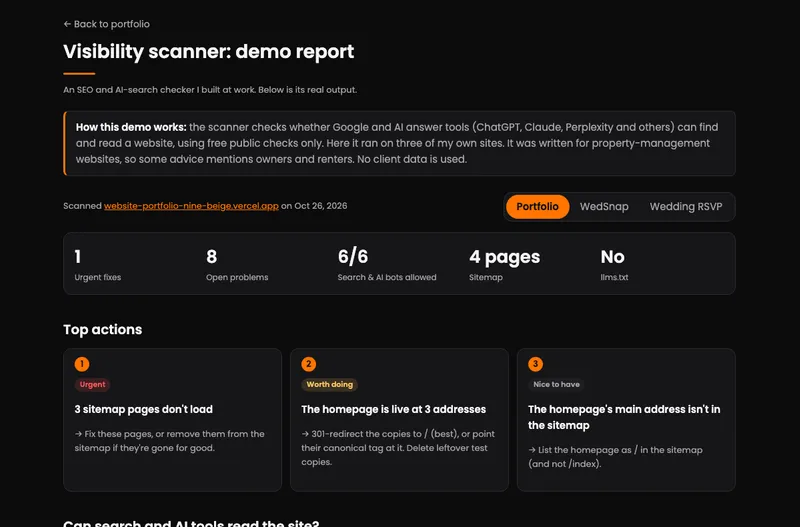
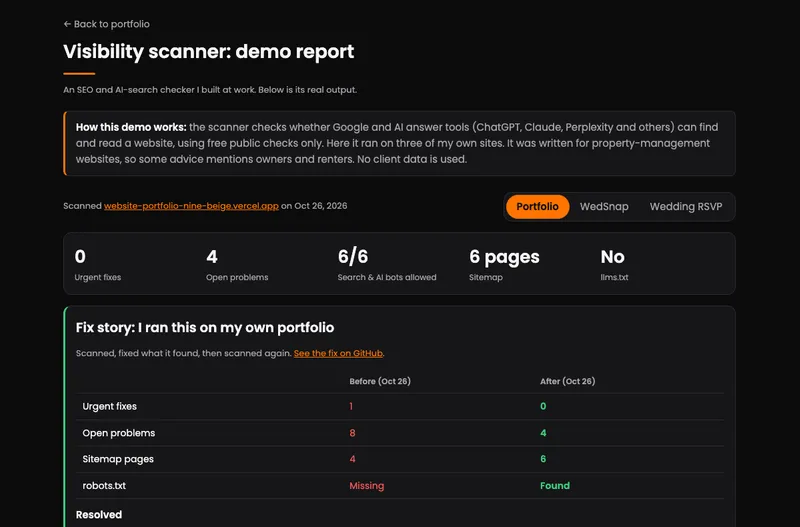
Show a before/after fix story in the Visibility demo
The portfolio tab now uses the scan taken after the sitemap, canonical
and robots.txt fixes, and compares it with the earlier scan: urgent
fixes 1 -> 0, open problems 8 -> 4, plus the resolved findings and a
link to the fix commit. build-visibility-demo.mjs takes the earlier scan
with --before and the fix link with --fix.

diff --git a/public/demos/visibility/index.html b/public/demos/visibility/index.html
@@ -22,6 +22,17 @@
       .tag.high { background: rgba(255, 90, 90, 0.15); color: var(--poor); }
       .tag.med { background: rgba(252, 195, 97, 0.15); color: var(--warn); }
       .tag.ok { background: rgba(60, 207, 122, 0.15); color: var(--good); }
+      .story { margin-top: 16px; border-left: 3px solid var(--good); }
+      .story h2 { margin: 0 0 4px; }
+      .compare { display: grid; grid-template-columns: 1.4fr 1fr 1fr; gap: 0; margin: 12px 0; font-size: 14px; }
+      .compare > div { padding: 8px 10px; border-bottom: 1px solid var(--line); }
+      .compare .head { color: var(--muted); font-size: 12px; font-weight: 600; }
+      .compare .was { color: var(--poor); }
+      .compare .now { color: var(--good); font-weight: 600; }
+      .resolved { list-style: none; padding: 0; margin: 0; }
+      .resolved li { padding: 6px 0; font-size: 14px; }
+      .resolved li::before { content: "✓"; color: var(--good); font-weight: 600; margin-right: 8px; }
+      .resolved small { color: var(--muted); margin-left: 6px; }
     </style>
   </head>
   <body>
@@ -47,6 +58,8 @@
       <section class="card">
         <div class="stats" id="stats"></div>
       </section>
+
+      <section id="story"></section>
 
       <h2>Top actions</h2>
       <div class="top3" id="top3"></div>
@@ -96,6 +109,8 @@
           .map(([v, n]) => `<div class="stat"><div class="value">${esc(v)}</div><div class="name">${esc(n)}</div></div>`)
           .join('');
 
+        renderStory(site, open);
+
         document.getElementById('top3').innerHTML = open.slice(0, 3).map((i) => `<div class="card">
             <span class="tag ${esc(i.severity)}">${esc(SEVERITY[i.severity])}</span>
             <p><strong>${esc(i.title)}</strong></p>
@@ -117,6 +132,38 @@
               <p class="kind">Evidence: ${esc(i.evidence)}</p>
             </div>
           </details>`).join('');
+      }
+
+      // Before/after for a site that was scanned, fixed and scanned again.
+      function renderStory(site, openNow) {
+        const story = document.getElementById('story');
+        const b = site.before;
+        if (!b) {
+          story.innerHTML = '';
+          return;
+        }
+        const openBefore = b.insights.filter((i) => i.severity !== 'ok');
+        const nowTitles = new Set(site.insights.map((i) => i.title));
+        const resolved = openBefore
+          .filter((i) => !nowTitles.has(i.title))
+          .sort((x, y) => ORDER[x.severity] - ORDER[y.severity]);
+        const day = (iso) => new Date(iso).toLocaleDateString(undefined, { month: 'short', day: 'numeric' });
+        const rows = [
+          ['Urgent fixes', openBefore.filter((i) => i.severity === 'high').length, openNow.filter((i) => i.severity === 'high').length],
+          ['Open problems', openBefore.length, openNow.length],
+          ['Sitemap pages', b.sitemap.urls, site.sitemap.urls],
+          ['robots.txt', b.robotsFound ? 'Found' : 'Missing', site.robotsFound ? 'Found' : 'Missing'],
+        ];
+        story.innerHTML = `<div class="card story">
+            <h2>Fix story: I ran this on my own portfolio</h2>
+            <p class="meta">Scanned, fixed what it found, then scanned again.${b.fixUrl ? ` <a href="${esc(b.fixUrl)}" target="_blank" rel="noopener">See the fix on GitHub</a>.` : ''}</p>
+            <div class="compare">
+              <div class="head"></div><div class="head">Before (${esc(day(b.scannedAt))})</div><div class="head">After (${esc(day(site.scannedAt))})</div>
+              ${rows.map(([name, was, now]) => `<div>${esc(name)}</div><div class="${was !== now ? 'was' : ''}">${esc(was)}</div><div class="${was !== now ? 'now' : ''}">${esc(now)}</div>`).join('')}
+            </div>
+            <h3 style="font-size:15px;margin:8px 0 4px">Resolved</h3>
+            <ul class="resolved">${resolved.map((i) => `<li>${esc(i.title)}<small>${esc(SEVERITY[i.severity])}</small></li>`).join('')}</ul>
+          </div>`;
       }
 
       fetch('data.json')
